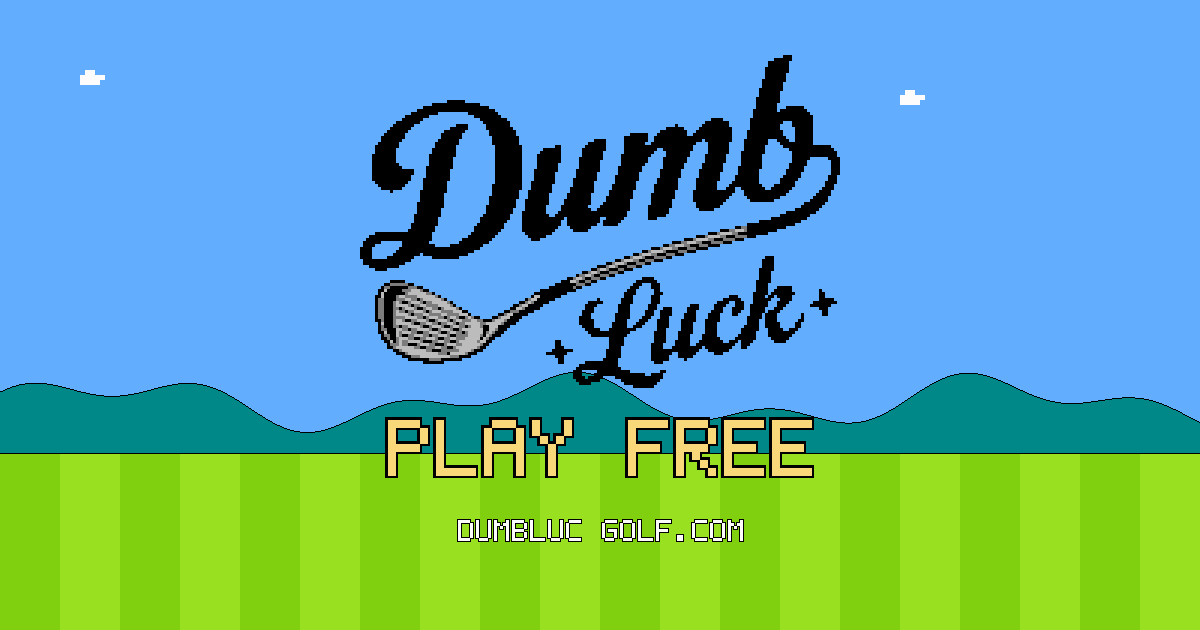
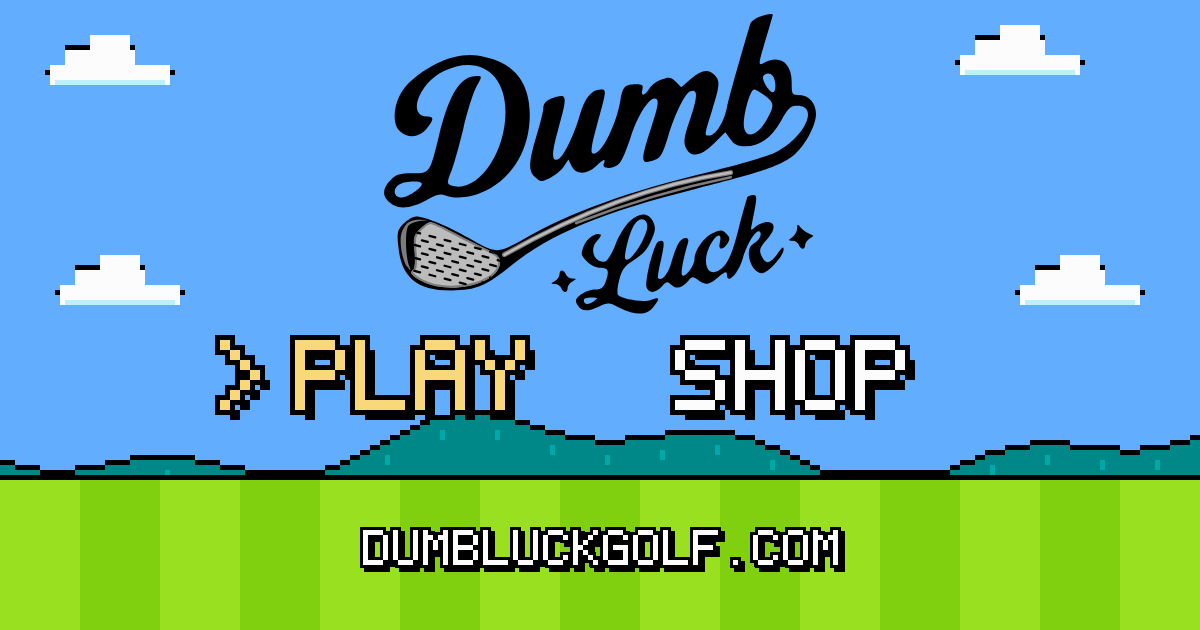
v8.21: swing mechanics + club overhaul, new share thumbnail (#31)

diff --git a/index.html b/index.html
@@ -12,7 +12,7 @@
 <title>Dumb Luck Golf</title>
 <meta name="description" content="Play Dumb Luck Golf, a free retro pixel golf game: Front 9, Back 9, Full 18 and a new Daily hole every day. Post your score on the leaderboard.">
 <meta name="author" content="Dumb Luck Golf">
-<meta name="dlg-version" content="v8.20">
+<meta name="dlg-version" content="v8.21">
 <link rel="canonical" href="https://dumbluckgolf.com/">
 <link rel="icon" type="image/png" sizes="32x32" href="favicon-32.png?v=81">
 <link rel="icon" type="image/png" sizes="192x192" href="icon-192.png?v=81">
@@ -23,14 +23,14 @@
 <meta property="og:description" content="Play Dumb Luck Golf, a free retro pixel golf game: Front 9, Back 9, Full 18 and a new Daily hole every day. Post your score on the leaderboard.">
 <meta property="og:type" content="website">
 <meta property="og:url" content="https://dumbluckgolf.com/">
-<meta property="og:image" content="https://dumbluckgolf.com/og-image.png">
+<meta property="og:image" content="https://dumbluckgolf.com/og-image.png?v=2">
 <meta property="og:image:width" content="1200">
 <meta property="og:image:height" content="630">
 <meta property="og:site_name" content="Dumb Luck Golf">
 <meta name="twitter:card" content="summary_large_image">
 <meta name="twitter:title" content="Dumb Luck Golf">
 <meta name="twitter:description" content="Play Dumb Luck Golf, a free retro pixel golf game: Front 9, Back 9, Full 18 and a new Daily hole every day. Post your score on the leaderboard.">
-<meta name="twitter:image" content="https://dumbluckgolf.com/og-image.png">
+<meta name="twitter:image" content="https://dumbluckgolf.com/og-image.png?v=2">
 <style>
   html,body{margin:0;width:100%;height:100%;background:#63adff;overflow:hidden;overscroll-behavior:none;touch-action:manipulation;
     user-select:none;-webkit-user-select:none;-webkit-touch-callout:none;-webkit-tap-highlight-color:transparent}
@@ -66,8 +66,8 @@
   <p>A free retro 8-bit side-view golf game that runs in your browser on phone, tablet or desktop. No download, no sign-up.</p>
   <h2>How to play</h2>
   <ol>
-    <li>Pick a club (driver, hybrid, iron, wedge or putter) and set your launch angle. Higher shots fly higher, roll less and catch more wind.</li>
-    <li>Tap, click or press Space once to start the swing, again to set power, and a third time to stop the marker inside the sweet-spot brackets for a clean hit.</li>
+    <li>Pick a club (driver, hybrid, iron, 9 iron, wedge or putter) and set your launch angle. Higher shots fly higher, roll less and catch more wind; lower shots punch through it and run out.</li>
+    <li>Tap, click or press Space once to start the swing, again to set power, and a third time to stop the marker inside the sweet-spot brackets for a clean hit. Stop a touch early for a high, soft slice or a touch late for a low, running hook.</li>
     <li>Watch the wind, avoid sand, water and trees, and hole out in as few strokes as you can.</li>
     <li>Bad shots sometimes get a lucky bounce toward the pin. That is Dumb Luck.</li>
   </ol>
@@ -104,7 +104,7 @@ if (/^#(test|preview)/.test(location.hash)) { LEADERBOARD_CONFIG.supabaseUrl = '
    GALLERY_ITEMS  reserved for a future gallery viewer, e.g. [{ src: 'gallery/ace.png', caption: 'HOLE 4 ACE' }].
                   When non-empty, GALLERY appears on the title menu automatically.
                   Until the real viewer is built, GALLERY shows a "coming soon" popup. */
-const GAME_VERSION = 'v8.20';
+const GAME_VERSION = 'v8.21';
 const REDUCED_MOTION = !!(window.matchMedia && matchMedia('(prefers-reduced-motion: reduce)').matches);
 const srLiveEl = document.getElementById('srLive');
 let srLast = '';
@@ -764,7 +764,7 @@ const FRONT_HOLES = [
    pts:[[0,'tee',12],[24,'sand',12],[70,'fair',12],[110,'sand',12],[170,'fair',14],[200,'sand',14],[250,'fair',12],[270,'green',12],[330,'sand',12],[352,'rough',12],[380,'end',14]] },
  // par 5 with a windmill guarding the lay-up zone: time the blades or go over the top
  { name:'BUNKER ALLEY', theme:'day', par:5, cup:640, pins:[618,640,661], wind:5, windR:[2,7], deco:[['board',235],['tree',31],['bush',172],['tree',289],['bush',488],['tree',726]],
-   movers:[{ kind:'windmill', x:383, w:22, hBot:0, hTop:52, period:2.8, phase:0.3 }],
+   movers:[{ kind:'windmill', x:383, w:22, hBot:0, hTop:38, period:2.8, phase:0.3 }],
    pts:[[0,'tee',10],[24,'fair',10],[101,'sand',10],[120,'fair',12],[195,'fair',16],[230,'sand',14],[251,'fair',14],[336,'fair',12],[430,'fair',18],
         [477,'sand',18],[498,'fair',16],[559,'fair',14],[571,'sand',14],[595,'green',14],[679,'sand',14],[698,'rough',14],[738,'end',16]] },
  // island green moved off hole 2; water ball -> DROP ZONE short of the green
@@ -786,7 +786,7 @@ const FRONT_HOLES = [
 const BACK_HOLES = [
  // blind ridge mid-fairway: carry the crest and run down the far side, or stall on the up-slope
  { name:'RIDGE RUNNER', theme:'day', par:4, cup:368, pins:[352,368,386], wind:3, windR:[-2,5], deco:[['tree',48],['bush',120],['tree',236],['bush',400]],
-   pts:[[0,'tee',12],[24,'rough',12],[48,'fair',10],[130,'fair',14],[172,'fair',36],[214,'fair',12],[290,'sand',10],[312,'fair',10],[334,'green',10],[404,'rough',10],[440,'end',14]] },
+   pts:[[0,'tee',12],[24,'rough',12],[48,'fair',10],[130,'fair',14],[172,'fair',36],[214,'fair',12],[290,'sand',10],[312,'fair',10],[334,'green',10],[392,'sand',10],[408,'rough',10],[440,'end',14]] },
  { name:'PINE NEEDLE', theme:'day', par:3, cup:140, pins:[124,140,156], wind:-5, windR:[-7,1], deco:[['tree',-30],['tree',40],['bush',190],['tree',210]],
    pts:[[0,'tee',18],[22,'rough',16],[40,'fair',12],[90,'rough',10],[110,'green',10],[170,'sand',10],[190,'rough',12],[220,'end',14]] },
  // two river crossings; the second has a tiny bounce-pad island that can hop you across
@@ -801,12 +801,12 @@ const BACK_HOLES = [
  { name:'MIRROR LAKE', theme:'day', par:3, cup:150, pins:[136,150,164], wind:2, windR:[-3,5], deco:[['tree',-30],['bush',70],['tree',250]],
    pts:[[0,'tee',46],[22,'rough',44],[34,'rough',40],[90,'fair',12],[104,'sand',10],[120,'green',10],[178,'water',10],[240,'rough',12],[270,'end',14]] },
  { name:'SWITCHBACK', theme:'day', par:4, cup:360, pins:[344,360,380], wind:-3, windR:[-6,2], deco:[['tree',50],['bush',140],['tree',240],['bush',330],['tree',420]],
-   pts:[[0,'tee',8],[26,'rough',8],[50,'fair',20],[90,'fair',28],[130,'fair',18],[180,'fair',10],[250,'fair',12],[300,'sand',10],[330,'green',10],[400,'rough',12],[440,'end',14]] },
+   pts:[[0,'tee',8],[26,'rough',8],[50,'fair',20],[90,'fair',28],[130,'fair',18],[180,'fair',10],[250,'fair',12],[300,'sand',10],[330,'green',10],[386,'sand',10],[404,'rough',12],[440,'end',14]] },
  { name:'GATOR BAIT', theme:'day', par:4, cup:384, pins:[368,384,400], wind:5, windR:[2,8], deco:[['bush',70],['tree',200],['bush',420]],
-   pts:[[0,'tee',12],[24,'rough',12],[50,'fair',10],[130,'water',10],[176,'fair',12],[240,'fair',16],[300,'fair',14],[330,'sand',14],[350,'green',12],[414,'water',10],[444,'rough',12],[474,'end',14]] },
+   pts:[[0,'tee',12],[24,'rough',12],[50,'fair',10],[130,'water',10],[176,'fair',12],[240,'fair',16],[300,'fair',14],[330,'sand',14],[350,'green',12],[406,'water',10],[444,'rough',12],[474,'end',14]] },
  // back nine's one intentionally driveable par 4: thread the rough strips
  { name:'NARROW MARGIN', theme:'night', par:4, cup:262, pins:[248,262,278], wind:-4, windR:[-6,2], deco:[['tree',30],['tree',90],['tree',150],['tree',220],['bush',300]],
-   pts:[[0,'tee',14],[22,'rough',14],[40,'fair',12],[100,'rough',10],[120,'fair',10],[170,'rough',10],[190,'fair',10],[232,'green',10],[296,'rough',10],[330,'end',14]] },
+   pts:[[0,'tee',14],[22,'rough',14],[40,'fair',12],[100,'rough',10],[120,'fair',10],[170,'rough',10],[190,'fair',10],[214,'sand',10],[232,'green',10],[292,'sand',10],[306,'rough',10],[330,'end',14]] },
  // (was a Moonlight copy) forced creek carry off the tee, long climb to a plateau green guarded by a sliding gate
  { name:'LAST CALL', theme:'sunset', par:5, cup:596, pins:[576,596,613], wind:4, windR:[-2,7], deco:[['board',174],['tree',20],['bush',207],['tree',329],['bush',450],['tree',660]],
    movers:[{ kind:'slide', x:521, w:10, hBot:0, hTop:30, period:2.4, phase:0, amp:14 }],
@@ -876,7 +876,7 @@ const DAILY_HOLES = [
   // Two sliding gates sweep the fairway
   { id: 'slalom', name: 'SLIDER ALLEY', theme: 'day', par: 4, cup: 330, wind: -2,
     deco: [['bush', 50], ['tree', 300], ['bush', 400]],
-    movers: [{ kind: 'slide', x: 140, w: 10, hBot: 0, hTop: 34, period: 2.2, phase: 0, amp: 30 }, { kind: 'slide', x: 238, w: 10, hBot: 0, hTop: 30, period: 3.0, phase: 0.5, amp: 26 }],
+    movers: [{ kind: 'slide', x: 140, w: 10, hBot: 0, hTop: 28, period: 2.2, phase: 0, amp: 30 }, { kind: 'slide', x: 238, w: 10, hBot: 0, hTop: 26, period: 3.0, phase: 0.5, amp: 26 }],
     pts: [[0,'tee',12],[24,'rough',12],[46,'fair',10],[180,'fair',12],[270,'sand',10],[290,'green',10],[370,'rough',12],[400,'end',14]] },
   // Desert cone with a crater green on top
   { id: 'volcano', name: 'THE VOLCANO', theme: 'desert', par: 3, cup: 190, wind: 4,
@@ -885,7 +885,7 @@ const DAILY_HOLES = [
   // Two windmills out of sync
   { id: 'twinmill', name: 'TWIN WINDMILLS', theme: 'autumn', par: 4, cup: 336, wind: -3,
     deco: [['bush', 40], ['tree', 300], ['bush', 410]],
-    movers: [{ kind: 'windmill', x: 120, w: 22, hBot: 0, hTop: 50, period: 2.2, phase: 0 }, { kind: 'windmill', x: 232, w: 22, hBot: 0, hTop: 50, period: 3.1, phase: 0.4 }],
+    movers: [{ kind: 'windmill', x: 120, w: 22, hBot: 0, hTop: 42, period: 2.2, phase: 0 }, { kind: 'windmill', x: 232, w: 22, hBot: 0, hTop: 40, period: 3.1, phase: 0.4 }],
     pts: [[0,'tee',12],[24,'rough',12],[46,'fair',10],[200,'fair',12],[278,'sand',10],[296,'green',10],[376,'rough',12],[410,'end',14]] }
 ];
 
@@ -1054,6 +1054,8 @@ function shotGrade() {
   if (raw > 22) return { label: 'SHANK', col: COL.orange };
   if (errPx < -6) return { label: 'PULL', col: COL.orange };
   if (errPx > 6) return { label: 'PUSH', col: COL.orange };
+  if (errPx < 0) return { label: 'SOFT HOOK', col: COL.white };
+  if (errPx > 0) return { label: 'SOFT SLICE', col: COL.white };
   return { label: 'OK', col: COL.white };
 }
 /* v8.20: one-line reason under the shot label (lie, wind, loft, what the ball hit) */
@@ -1061,11 +1063,15 @@ function shotWhyAtLaunch(lie, lv) {
   const why = [];
   if (!ball || !hole) return why;
   const lk = (LIE_K[lie] || LIE_K.fair)[clubIdx];
-  if (lk < 1) why.push((lie === 'sand' ? 'SAND' : 'ROUGH') + ' -' + Math.round((1 - lk) * 100) + '%');
+  if (lv.splash) why.push('SPLASH SHOT');
+  else if (lk < 1) why.push((lie === 'sand' ? 'SAND' : 'ROUGH') + ' -' + Math.round((1 - lk) * 100) + '%');
+  if (lv.flyer > 1.025) why.push('FLYER!'); else if (lv.flyer < 0.975) why.push('HEAVY LIE');
+  if (clubIdx !== PUTT_I && Math.abs(lv.slope || 0) >= 2) why.push((lv.slope > 0 ? 'UPHILL' : 'DOWNHILL') + ' LIE');
+  if (shotPerfect) why.push('PURE: +4%');
   if (clubIdx !== PUTT_I) {
     if (wind) {
       try {
-        const a = simulateShot(hole, wind, ball.x, clubIdx, angle, meter.power, errPx, facing), b = simulateShot(hole, 0, ball.x, clubIdx, angle, meter.power, errPx, facing);
+        const a = simulateShot(hole, wind, ball.x, clubIdx, angle, meter.power, errPx, facing), b = simulateShot(hole, 0, ball.x, clubIdx, angle, meter.power, errPx, facing);   // (sims skip the perfect/flyer bonus)
         const d = Math.round((a.x - b.x) * facing);
         if (Math.abs(d) >= 3) why.push('WIND ' + (d > 0 ? '+' : '') + d + 'Y');
       } catch (e) {}
@@ -1083,6 +1089,7 @@ function shotWhy(final) {
   if (sn.pad) out.push('BOUNCE PAD');
   if (sn.tree) out.push('CLIPPED THE OAK');
   if (sn.lip) out.push('LIPPED OUT');
+  if (sn.spinback) out.push('SPUN BACK!'); else if (sn.check) out.push('CHECKED UP');
   for (const w of ((ball && ball.why) || [])) out.push(w);
   if (final === 'sand' && !out.length) out.push('SAND: SHORT ROLL');
   let line = out.slice(0, 2).join('  ');
@@ -1176,15 +1183,17 @@ function slopeAt(hl, x) { return (groundH(hl, x + 1) - groundH(hl, x - 1)) / 2; 
 
 /* ---------------- clubs + physics ---------------- */
 const CLUBS = [
-  { name:'DRIVER', v:113, def:35, min:15, max:50 },
+  { name:'DRIVER', v:113, def:35, min:15, max:50 },   // v8.21: spin = backspin at full power, wk = wind sensitivity (set below)
   { name:'HYBRID', v:102, def:38, min:18, max:55 },   // v8.20: fills the driver/iron gap
   { name:'IRON',   v:92,  def:42, min:20, max:60 },
+  { name:'9 IRON', v:82,  def:48, min:28, max:66 },   // v8.21: fills the iron/wedge gap (~140y)
   { name:'WEDGE',  v:73,  def:58, min:40, max:75 },
   { name:'PUTTER', v:66,  def:0,  min:0,  max:0  }
 ];
-const PUTT_I = CLUBS.length - 1, WEDGE_I = CLUBS.length - 2;   // v8.20: club indexes (HYBRID shifted IRON/WEDGE/PUTTER up by one)
+const PUTT_I = CLUBS.length - 1, WEDGE_I = CLUBS.length - 2;
+[[.02, 1], [.10, 1], [.20, 1], [.32, .85], [.50, .65], [0, 1]].forEach(([sp, wk], i) => { CLUBS[i].spin = sp; CLUBS[i].wk = wk; });   // v8.21   // v8.20: club indexes (HYBRID shifted IRON/WEDGE/PUTTER up by one)
 const G = 60, WIND_K = 1.35;   // v8.13: wind 1.5x (was 0.9)
-const PUTT_CAPV = 22, CUP_STOP_R = 1.2, LIP_KEEP = 0.7;   // v8.13 putting: drop speed 26->22, lip-stop radius 1.5->1.2, lip-out keeps 0.6->0.7 of speed
+const PUTT_CAPV = 6, CUP_STOP_R = 0.5, LIP_KEEP = 0.7;   // v8.21 putting: drop speed 22->6 (max ~0.6y past), lip-stop 1.2->0.5 (v8.13: 26->22, 1.5->1.2), lip-stop radius 1.5->1.2, lip-out keeps 0.6->0.7 of speed
 const SURF = {
   tee:   { rest:.30, keep:.60, dec:45 },
   fair:  { rest:.30, keep:.60, dec:45 },
@@ -1192,35 +1201,52 @@ const SURF = {
   green: { rest:.25, keep:.55, dec:30 },
   sand:  { rest:0,   keep:.2,  dec:240 }   // v8.20: short roll in sand (was a dead stop)
 };
-const LIE_K = { tee:[1,1,1,1,1], fair:[1,1,1,1,1], green:[1,1,1,1,1], rough:[.7,.8,.85,.9,.6], sand:[.4,.5,.6,.85,.35] };
+const LIE_K = { tee:[1,1,1,1,1], fair:[1,1,1,1,1], green:[1,1,1,1,1], rough:[.8,.86,.88,.9,.9,.6], sand:[.4,.5,.6,.7,.85,.35] };   // v8.21: rough eased for long clubs; 9 iron added
+for (const k of ['tee', 'fair', 'green']) LIE_K[k] = [1, 1, 1, 1, 1, 1];
 
 // Short game: putts, and wedge chips from CHIP_DIST yards or closer. Power maps (roughly) linearly to distance,
 // with 100% going about 1.5x the distance to the hole, so mid-meter is a sensible stroke instead of a blast.
-const CHIP_DIST = 60;
+// v8.21: one power curve for every full shot (distance ~ power). The wedge's touch range (65% of a full wedge)
+// fades into the full range between 50 and 90y, so there is no jump at the chip line. The putter uses a few FIXED
+// ranges (R= in the HUD) instead of scaling to the hole, so stroke length has to match the putt.
+const CHIP_DIST = 60, CHIP_RANGE = 0.65, SPLASH_DIST = 40, SPLASH_LIFT = 8, CHIP_CAPV = 12, AIR_CAPV = 8;   // v8.21: cup capture for chips 16 -> 12, full shots 10 -> 8 (spin stops balls near the pin)
 const isChip = (c, dist) => c === WEDGE_I && dist <= CHIP_DIST;
-const puttRange = dist => Math.round(clamp(1.5 * dist, 18, 150));   // flat-ground roll at 100% putter power
-function launchVel(clubIdx, angDeg, power, errPx, lie, dir, dist) {
-  const c = CLUBS[clubIdx], miss = 1 - 0.025 * Math.abs(errPx), lk = (LIE_K[lie] || LIE_K.fair)[clubIdx];
+const isSplash = (c, lie, dist) => c === WEDGE_I && lie === 'sand' && dist <= SPLASH_DIST;
+const smooth01 = t => t <= 0 ? 0 : t >= 1 ? 1 : t * t * (3 - 2 * t);
+const chipK = (c, dist) => c !== WEDGE_I ? 1 : CHIP_RANGE + (1 - CHIP_RANGE) * smooth01((dist - 50) / 40);
+const PUTT_STEPS = [[8, 16], [20, 36], [45, 72], [1e9, 120]];
+const puttRange = dist => { for (const [d, r] of PUTT_STEPS) if (dist <= d) return r; return 120; };   // flat-ground roll at 100% putter power
+const DUNK_R = 1.0, WIND_HEAD = 1.15, WIND_TAIL = 0.88, PERFECT_V = 1.02, FLYER = 0.05;   // v8.21: headwinds bite ~1.3x harder than tailwinds help; PERFECT = +2% speed (~+4% carry); rough flyers +/-5% speed
+// v8.21 sweet zone edge: graded instead of a cliff (0 -> ~8% distance over the first 3px outside the brackets)
+function effErr(raw, sw) { const a = Math.abs(raw), o = a - sw; if (o <= 0) return 0; const e = o <= 3 ? o / 3 * 1.6 : 1.6 + (o - 3) * 1.5; return Math.sign(raw) * Math.min(e, 15.36); }
+const lieSlope = (hl, x, dir) => clamp(Math.atan(slopeAt(hl, x) * dir) * 180 / Math.PI, -6, 6);   // v8.21: uphill lie launches higher, downhill lower
+function launchVel(clubIdx, angDeg, power, errPx, lie, dir, dist, o) {
+  o = o || {};
+  const c = CLUBS[clubIdx], miss = 1 - 0.025 * Math.abs(errPx), splash = isSplash(clubIdx, lie, dist), lk = splash ? 1 : (LIE_K[lie] || LIE_K.fair)[clubIdx];
   if (clubIdx === PUTT_I) {
     const v = Math.sqrt(2 * SURF.green.dec * puttRange(dist) * power) * miss * lk;
     return { vx: dir * v * (1 - 0.01 * errPx), vy: 0, mode: 'roll', rough: false, capV: PUTT_CAPV, windK: 1, rollK: 1 };
   }
-  const chip = isChip(clubIdx, dist);
-  let v;
-  if (chip) { const s2 = Math.max(0.35, Math.sin(2 * angDeg * Math.PI / 180)); v = Math.min(c.v, Math.sqrt(1.5 * Math.max(dist, 12) * G / s2)) * Math.sqrt(power); }
-  else v = c.v * power;
-  v *= miss * lk;
-  const a = (angDeg + errPx * 0.8) * Math.PI / 180;
-  // v8.20 loft: above the club's stock loft = more wind and less roll; below = less wind, more run
+  const chip = isChip(clubIdx, dist), pw = clamp(power, 0, 1);
+  let v = c.v * Math.sqrt(pw * chipK(clubIdx, dist));
+  v *= miss * lk * (o.vMul || 1);
+  const slope = clubIdx === PUTT_I ? 0 : clamp(o.slope || 0, -6, 6);
+  const a = (angDeg + errPx * 0.8 + slope + (splash ? SPLASH_LIFT : 0)) * Math.PI / 180;
+  // v8.20 loft: above the club's stock loft = more wind and less roll; below = less wind, more run (v8.21: punch floor 0.75 -> 0.6)
   const rel = angDeg - c.def;
-  return { vx: dir * v * Math.cos(a), vy: v * Math.sin(a), mode: 'air', rough: Math.abs(errPx) > 4, capV: chip ? 16 : 10, windK: clamp(1 + 0.016 * rel, 0.75, 1.4), rollK: clamp(1 - 0.014 * rel, 0.65, 1.12) };
+  // v8.21 spin: by club, loft and swing length; a slice (early stop, errPx > 0) adds spin and stops, a hook takes it off and runs
+  let spin = c.spin * (0.4 + 0.6 * pw) + 0.008 * rel + 0.012 * errPx;
+  if (lie === 'rough') spin *= 0.3; else if (lie === 'sand' && !splash) spin *= 0.6;
+  let rollK = clamp(1 - 0.014 * rel, 0.65, 1.12) * clamp(1 - 0.02 * errPx, 0.7, 1.3);
+  if (splash) { rollK *= 0.45; spin = Math.max(spin, 0.5); }
+  return { vx: dir * v * Math.cos(a), vy: v * Math.sin(a), mode: 'air', rough: Math.abs(errPx) > 4, capV: chip ? CHIP_CAPV : AIR_CAPV, windK: clamp(1 + 0.016 * rel, 0.6, 1.4) * (c.wk || 1), rollK, spin: clamp(spin, 0, 1.1), splash, slope };
 }
 // Advance a ball by dt. Returns null while moving, otherwise 'stop' | 'cup' | 'water' | 'ob'.
 const iv0 = b => Math.abs(b.vy);
 function stepBall(b, hl, wind, dt) {
   if (b.mode === 'air') {
     const px = b.x;
-    if (!b.noWind) b.vx += wind * WIND_K * (b.windK || 1) * dt;
+    if (!b.noWind) { const wa = wind * WIND_K * (b.windK || 1); b.vx += wa * (wa * b.vx < 0 ? WIND_HEAD : WIND_TAIL) * dt; }
     b.vy -= G * dt;
     b.x += b.vx * dt; b.h += b.vy * dt;
     if (b.x < -60 || b.x > hl.len + 60) return 'ob';
@@ -1261,9 +1287,10 @@ function stepBall(b, hl, wind, dt) {
       if (b.lucky) { b.lucky = false; b.noWind = false; b.h = gh; b.mode = 'roll'; b.vy = 0; b.vx = Math.sign(hl.cup - b.x) * 5; b.events.push('bounce'); return null; }   // lucky hop settles
       if (s === 'water') return 'water';
       if (surfAt(hl, px) === 'water' && gh - b.h > 3) return 'water';     // smacked the far bank
-      if (Math.abs(b.x - hl.cup) < 1.5 && Math.abs(b.vx) < 30 && iv0(b) < 60) { b.x = hl.cup; b.h = gh; return 'cup'; }
+      if (Math.abs(b.x - hl.cup) < DUNK_R && Math.abs(b.vx) < 30 && iv0(b) < 60) { b.x = hl.cup; b.h = gh; return 'cup'; }   // v8.21: dunk window 1.5 -> DUNK_R
       b.h = gh;
       const pad = onBouncePad(hl, b.x) && (b.padHits || 0) < 2;
+      if (b.spin) { const sp0 = b.spin; b.spin = 0; if (!pad) { b.vx *= 1 - sp0; if (sp0 >= 0.45 && s === 'green') b.events.push(sp0 > 1 ? 'spinback' : 'check'); } }   // v8.21 backspin bites on the first landing
       const sp = SURF[b.rough ? 'rough' : s] || SURF.fair;
       b.rough = false;
       const iv = -b.vy;
@@ -1308,8 +1335,8 @@ function stepBall(b, hl, wind, dt) {
 }
 const STEP = 1 / 240;
 function simulateShot(hl, wind, x, clubIdx, ang, power, err, dir) {
-  const lv = launchVel(clubIdx, ang, power, err, surfAt(hl, x), dir, Math.abs(hl.cup - x));
-  const b = { x, h: groundH(hl, x), vx: lv.vx, vy: lv.vy, mode: lv.mode, rough: lv.rough, capV: lv.capV, windK: lv.windK, rollK: lv.rollK, events: [], rollSteps: 0 };
+  const lv = launchVel(clubIdx, ang, power, err, surfAt(hl, x), dir, Math.abs(hl.cup - x), { slope: lieSlope(hl, x, dir) });
+  const b = { x, h: groundH(hl, x), vx: lv.vx, vy: lv.vy, mode: lv.mode, rough: lv.rough, capV: lv.capV, windK: lv.windK, rollK: lv.rollK, spin: lv.spin, events: [], rollSteps: 0 };
   let r = null, n = 0;
   while (!r && n++ < 240 * 40) { r = stepBall(b, hl, wind, STEP); b.events.length = 0; }
   return { res: r || 'stop', x: b.x };
@@ -1367,7 +1394,7 @@ let ball = null, lastSpot = TEE_X, clubIdx = 0, angle = 25, facing = 1;
 let meter = { pos: 0, dir: 1, power: 0, acc: 0 };
 // 3-click meter: power, then stop the returning marker in the green SWEET zone for clean contact.
 // PERFECT = power in the gold zone + marker dead on the line (not for putts).
-const SWEET_ERR = 3.3, PERFECT_ERR = 2, PERFECT_POW = 0.9, SHORT_SLOW = 0.7, SHORT_SWEET = 6.6;   // v8.15: sweet zone eased halfway back (v8.13 2.6 / 5.2; orig 4 / 8)
+const SWEET_ERR = 3.6, PERFECT_ERR = 2, PERFECT_POW = 0.9, SHORT_SLOW = 0.7, SHORT_SWEET = 6.6;   // v8.21: full-swing zone 3.3 -> 3.6 and a graded edge (effErr); v8.15 eased (v8.13 2.6 / 5.2; orig 4 / 8)
 const shortGameNow = () => !!(hole && ball && (clubIdx === PUTT_I || isChip(clubIdx, Math.abs(hole.cup - ball.x))));
 const isShort = () => state === 'aim' ? shortGameNow() : !!meter.short;   // locked in when the swing starts
 const pwSpeed = () => PW_SPEED * (meter.short ? SHORT_SLOW : 1), accSpeed = () => ACC_SPEED * (meter.short ? SHORT_SLOW : 1);
@@ -2318,12 +2345,20 @@ function placeBall(x) {
   autoClub(); swingAng = 75;
 }
 function autoClub() {
-  const lie = surfAt(hole, ball.x), d = Math.abs(hole.cup - ball.x);
+  // v8.21: simulate each club at full power from this lie, in this wind, and take the shortest one that gets there
+  const lie = surfAt(hole, ball.x), d = Math.abs(hole.cup - ball.x), dir = hole.cup >= ball.x ? 1 : -1;
   if (lie === 'green') clubIdx = PUTT_I;
-  else if (d > 225 && lie !== 'sand') clubIdx = 0;
-  else if (d > 185 && lie !== 'sand') clubIdx = 1;
-  else if (d > 95) clubIdx = 2;
-  else clubIdx = WEDGE_I;
+  else if (isSplash(WEDGE_I, lie, d)) clubIdx = WEDGE_I;   // greenside bunker: splash it out
+  else {
+    let pick = -1, best = WEDGE_I, bestReach = -1e9;
+    for (let c = WEDGE_I; c >= 0; c--) {
+      let reach = 0;
+      try { reach = (simulateShot(hole, wind, ball.x, c, CLUBS[c].def, 1, 0, dir).x - ball.x) * dir; } catch (e) {}
+      if (reach >= d - 2) { pick = c; break; }
+      if (reach > bestReach + 3) { bestReach = reach; best = c; }   // a longer club only if it clearly goes further
+    }
+    clubIdx = pick >= 0 ? pick : best;
+  }
   angle = CLUBS[clubIdx].def;
 }
 function setClub(i) { clubIdx = (i + CLUBS.length) % CLUBS.length; angle = CLUBS[clubIdx].def; SFX.click(); }
@@ -2539,7 +2574,7 @@ function action() {
   if (state === 'intro') { if (st > 0.3) { setState('aim'); if (holeIdx === 0) openRoundTip(); } return; }
   if (roundTip) return;   // swing blocked until OK
   if (state === 'aim') { meter.pos = 0; meter.dir = 1; meter.short = shortGameNow(); for (const k in held) delete held[k]; setState('power'); SFX.tick(); return; }
-  if (state === 'power') { meter.power = Math.max(0.02, meterLive()); meter.acc = meter.power; setState('accuracy'); SFX.tick(); return; }
+  if (state === 'power') { meter.power = Math.max(0.02, meterLive()); meter.acc = ACC_START; setState('accuracy'); SFX.tick(); return; }   // v8.21: same timing for every power
   if (state === 'accuracy') { commitAccuracy(meterLive()); return; }
   if (state === 'done' && st > 0.8) { nextHole(); return; }
   if (state === 'card' && st > 1.2) { openBoard(lastEntry, lastEntry && lastEntry.mode); return; }
@@ -2556,7 +2591,7 @@ function commitAccuracy(acc) {
   meter.acc = acc;
   shotSweet = Math.abs(raw) <= sweetErr();                     // inside the green zone = clean contact, no hook/slice
   shotPerfect = clubIdx !== PUTT_I && meter.power >= PERFECT_POW && Math.abs(raw) <= PERFECT_ERR;
-  errPx = shotSweet ? 0 : clamp(raw, ACC_MIN * 128, -ACC_MIN * 128);   // a wild early click is a big slice, never a backwards shot
+  errPx = shotSweet ? 0 : effErr(clamp(raw, ACC_MIN * 128, -ACC_MIN * 128), sweetErr());   // v8.21: just outside the brackets is a small miss, a wild click is a big one (never backwards)
   SFX.tick(); setState('swing');
 }
 const SWING_ADDR = 75, DOWN_T = 0.13, FOLLOW_T = 0.45;
@@ -2565,9 +2600,10 @@ function launch() {
   strokes++; lastSpot = ball.x;
   ball.shotFrom = ball.x; ball.carryX = null; ball.maxH = ball.h;
   const lie = surfAt(hole, ball.x);
-  const lv = launchVel(clubIdx, angle, meter.power, errPx, lie, facing, Math.abs(hole.cup - ball.x));
-  ball.vx = lv.vx; ball.vy = lv.vy; ball.mode = lv.mode; ball.rough = lv.rough; ball.capV = lv.capV; ball.windK = lv.windK; ball.rollK = lv.rollK; ball.seen = {};
-  ball.why = shotWhyAtLaunch(lie, lv); ball.rollSteps = 0; ball.overCup = false; ball.hitTree = false; ball.lucky = false; ball.noWind = false; ball.luckUsed = false; ball.wallHit = false; ball.moverHit = false; ball.padHits = 0; ball.pinTried = false;
+  const flyer = lie === 'rough' && clubIdx !== PUTT_I ? 1 + (Math.random() * 2 - 1) * FLYER : 1;   // v8.21 flyer lies
+  const lv = launchVel(clubIdx, angle, meter.power, errPx, lie, facing, Math.abs(hole.cup - ball.x), { vMul: (shotPerfect ? PERFECT_V : 1) * flyer, slope: lieSlope(hole, ball.x, facing) });
+  ball.vx = lv.vx; ball.vy = lv.vy; ball.mode = lv.mode; ball.rough = lv.rough; ball.capV = lv.capV; ball.windK = lv.windK; ball.rollK = lv.rollK; ball.spin = lv.spin; ball.seen = {};
+  lv.flyer = flyer; ball.why = shotWhyAtLaunch(lie, lv); ball.rollSteps = 0; ball.overCup = false; ball.hitTree = false; ball.lucky = false; ball.noWind = false; ball.luckUsed = false; ball.wallHit = false; ball.moverHit = false; ball.padHits = 0; ball.pinTried = false;
   ball.luck = forceLuck || (clubIdx !== PUTT_I && !shotSweet && Math.random() < LUCK_MISHIT); forceLuck = false;   // rare DUMB LUCK on a mishit
   trail = []; trailT = 0;
   if (clubIdx === PUTT_I) SFX.putt(); else SFX.hit(); hap(clubIdx === PUTT_I ? 12 : [8, 30, 18]);
@@ -2973,12 +3009,12 @@ addEventListener('keydown', e => {
     else if (k === 'ArrowRight' || k === 'd' || k === 'D') facing = 1;
     else if (k === 'q' || k === 'Q') setClub(clubIdx - 1);
     else if (k === 'e' || k === 'E' || k === 'Tab') setClub(clubIdx + 1);
-    else if (k >= '1' && k <= '4') setClub(+k - 1);
+    else if (k >= '1' && k <= '6') setClub(+k - 1);
   }
 });
 
 /* ---------------- update ---------------- */
-const PW_SPEED = 1 / 0.95, ACC_SPEED = 1.1, ACC_MIN = -0.12;
+const PW_SPEED = 1 / 0.95, ACC_SPEED = 1.1, ACC_MIN = -0.12, ACC_START = 0.6;
 function update(dt) {
   st += dt;
   updateFx(dt);
@@ -3743,8 +3779,8 @@ function drawAim() {
     if (live) { const ex = Math.round(r.x - camX), ey = Math.round(BASE - groundH(hole, r.x)) - 6; rect(ex - 2, ey - 1, 5, 5, '#000'); rect(ex - 1, ey, 3, 3, dc); }
     return;
   }
-  const lv = launchVel(clubIdx, angle, 1, 0, surfAt(hole, ball.x), facing, Math.abs(hole.cup - ball.x));
-  const len = [80, 74, 68, 56][clubIdx] * lenK, dt = 1 / 120;
+  const lv = launchVel(clubIdx, angle, 1, 0, surfAt(hole, ball.x), facing, Math.abs(hole.cup - ball.x), { slope: lieSlope(hole, ball.x, facing) });
+  const len = [80, 74, 68, 62, 56][clubIdx] * lenK, dt = 1 / 120;
   let x = ball.x, h = ball.h + 3, vy = lv.vy, run = 0, next = 6 + gap * phase;
   for (let i = 0; i < 400 && run < len; i++) {
     const nx = x + lv.vx * dt, nh = h + vy * dt; vy -= G * dt;
@@ -3782,6 +3818,19 @@ function hudCell(i, y, text, col, border) {
 }
 const MZ = 20, ML = 112;                                       // meter: x of the sweet-spot line, pixels for 100% power
 function meterMarker(x, col) { const my = HUD_Y0 + 37; rect(x - 2, my, 5, 14, '#000'); rect(x - 1, my + 1, 3, 12, col); }
+/* v8.21: aim hint under the meter: what the loft does, otherwise the club's full-power carry (power ~ distance) */
+let aimHintCache = null;
+function aimHint() {
+  const rel = Math.round(angle) - CLUBS[clubIdx].def;
+  if (rel <= -4) return 'LOW: -WIND +ROLL';
+  if (rel >= 4) return 'HIGH: +WIND -ROLL';
+  const key = [holeIdx, clubIdx, ball.x.toFixed(1), Math.round(angle), facing].join(':');
+  if (!aimHintCache || aimHintCache.key !== key) {
+    const lv = launchVel(clubIdx, angle, 1, 0, surfAt(hole, ball.x), facing, Math.abs(hole.cup - ball.x), { slope: lieSlope(hole, ball.x, facing) });
+    aimHintCache = { key, t: 'FULL CARRY ' + Math.round(Math.abs(2 * lv.vx * lv.vy / G)) + 'Y' };
+  }
+  return aimHintCache.t;
+}
 function drawMeter() {
   box(2, HUD_Y0 + 28, 138, 24);
   const mx = p => Math.round(MZ + p * ML), y0 = HUD_Y0 + 40, gz = mx(PERFECT_POW), ge = mx(1);
@@ -3805,11 +3854,12 @@ function drawMeter() {
   if (state === 'accuracy') { rect(mx(meter.power), y0 - 2, 1, 13, '#f8d878'); meterMarker(mx(meter.acc), COL.white); }
   if (state === 'swing' || state === 'flight') { rect(mx(meter.power), y0 - 2, 1, 13, '#f8d878'); meterMarker(mx(meter.acc), shotPerfect ? '#f8d878' : shotSweet ? COL.lime : COL.orange); }
   let label = isTouchUi() ? 'TAP = SWING' : 'SPACE/CLICK = SWING', lc = COL.white;
-  if (state === 'aim' && shortGameNow()) { label = (clubIdx === PUTT_I ? 'PUTT' : 'CHIP') + ': RED FLAG = HOLE'; lc = COL.white; }
+  if (state === 'aim' && shortGameNow()) { label = clubIdx !== PUTT_I && isSplash(clubIdx, surfAt(hole, ball.x), Math.abs(hole.cup - ball.x)) ? 'SPLASH: FLAG = HOLE' : (clubIdx === PUTT_I ? 'PUTT' : 'CHIP') + ': RED FLAG = HOLE'; lc = COL.white; }
+  else if (state === 'aim' && clubIdx !== PUTT_I) { label = aimHint(); lc = COL.white; }
   if (state === 'power') label = meter.short ? 'STOP NEAR THE FLAG' : isTouchUi() ? 'TAP = SET POWER' : 'SET POWER';
   else if (state === 'accuracy') { label = 'STOP IN BRACKETS!'; lc = COL.lime; }
   else if (state === 'swing' || state === 'flight') {
-    label = shotPerfect ? 'PERFECT!' : shotSweet ? (clubIdx === PUTT_I ? 'GOOD PUTT' : 'CLEAN HIT') : (clubIdx === PUTT_I ? 'OFF LINE' : errPx > 0 ? 'SLICE' : 'HOOK');
+    label = shotPerfect ? 'PERFECT!' : shotSweet ? (clubIdx === PUTT_I ? 'GOOD PUTT' : 'CLEAN HIT') : (clubIdx === PUTT_I ? 'OFF LINE' : errPx > 0 ? 'SLICE: HIGH' : 'HOOK: LOW');
     lc = shotPerfect ? '#f8d878' : shotSweet ? COL.lime : COL.orange;
   }
   drawText(label, 6, HUD_Y0 + 30, lc);
@@ -4761,6 +4811,8 @@ if (/test/.test(location.hash)) {
     putTo(x) { placeBall(x); setState('aim'); camX = camTarget(); },
     get fx() { return { parts: fx.parts.length, banner: fx.banner ? fx.banner.text : null, glow: fx.glow, flash: fx.flash, dog: dogPop ? dogPop.kind : null }; },
     get shot() { return { sweet: shotSweet, perfect: shotPerfect, err: errPx }; },
+    // v8.21 mechanics probes (test hash only)
+    m21: { version: () => GAME_VERSION, clubs: () => CLUBS.map(c => c.name), clubName: () => CLUBS[clubIdx].name, hint: () => aimHint(), shortNow: () => shortGameNow(), puttRange: d => puttRange(d), splash: () => !!(hole && ball && isSplash(clubIdx, surfAt(hole, ball.x), Math.abs(hole.cup - ball.x))), def: () => CLUBS[clubIdx].def, action: () => action(), meter: () => Object.assign({}, meter), commit: a => commitAccuracy(a), grade: () => shotGrade(), fx: () => shotFx ? { label: shotFx.label, reason: shotFx.reason } : null, PUTT_I },
     setAngle(a) { angle = a; }, get held() { return Object.assign({}, held); },
     windowScan(x) {   // fraction of the power range (per club, default loft, perfect contact) that holes out
       const dir = hole.cup >= x ? 1 : -1, parts = [];

diff --git a/sw.js b/sw.js
@@ -1,6 +1,6 @@
 /* Dumb Luck Golf service worker - offline shell, never cache Supabase */
-const CACHE = 'dlg-golf-v100';
-// v8.20: include the exact ?v= URLs index.html requests (cache-first lookups match the full URL incl. query)
+const CACHE = 'dlg-golf-v101';
+// v8.20+: include the exact ?v= URLs index.html requests (cache-first lookups match the full URL incl. query)
 const PRECACHE = [
   './',
   './manifest.webmanifest',
